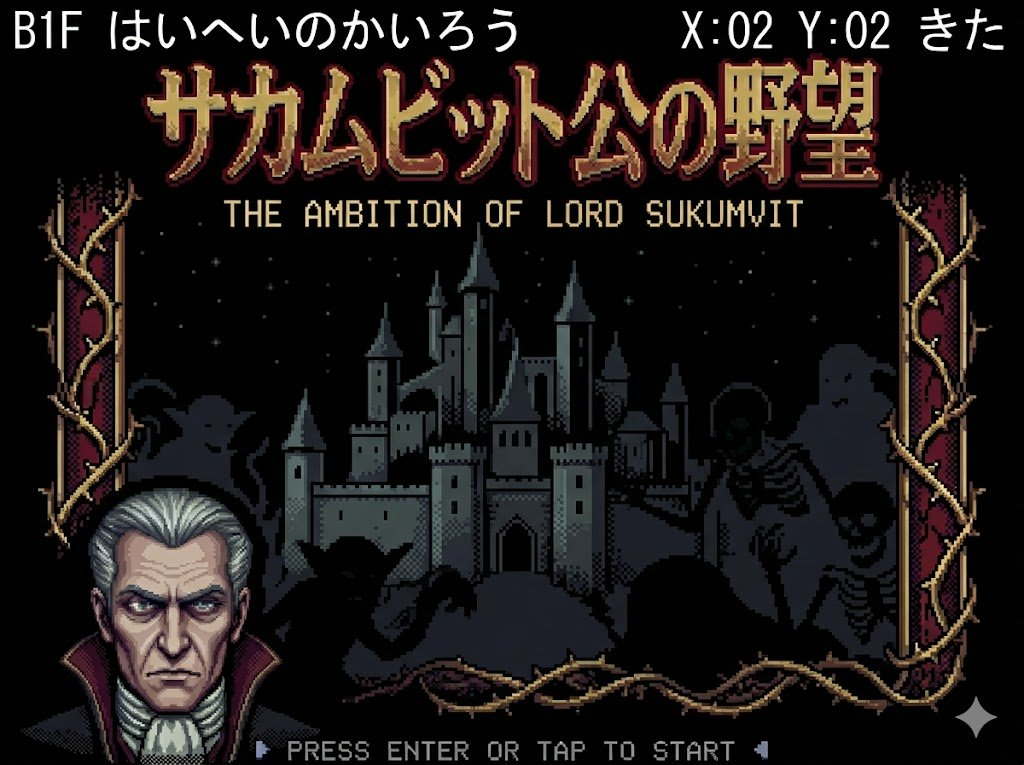
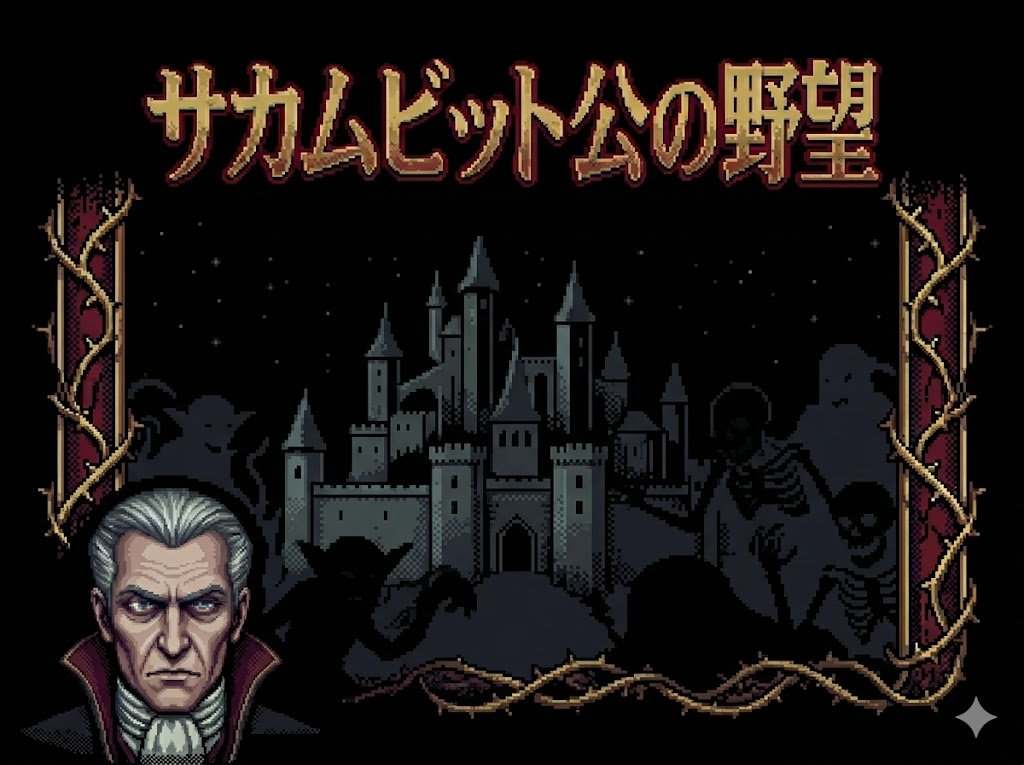
表示をすべて日本語化（能力値・階名・所持金・状態異常・タイトル等）、縮小時の文字化け対策
Claude-Session: https://claude.ai/code/session_01KaWmok8TJM3XTd2GM42zCU

diff --git a/main.js b/main.js
@@ -126,7 +126,7 @@ const SPELLS = {
 
 const FLOORS = [
   {
-    name: "B1F 廃兵の回廊", color: "#58ff9a", start: [1, 17, 0], encounter: 0.08,
+    name: "地下1階 廃兵の回廊", color: "#58ff9a", start: [1, 17, 0], encounter: 0.08,
     map: [
       "###################",
       "#..T....#.....E..>#",
@@ -159,7 +159,7 @@ const FLOORS = [
     monsters: ["skeleton","kobold","rat","brigand","goblin","zombie","cave_bat","slime","cave_spider","imp","bandit","mushroom_man","toad","mud_bat","bone_dog","plague_rat","thug","hollow","rust_sprite","cave_worm"]
   },
   {
-    name: "B2F 魔導工房跡", color: "#60c8ff", start: [1, 1, 1], encounter: 0.105,
+    name: "地下2階 魔導工房跡", color: "#60c8ff", start: [1, 1, 1], encounter: 0.105,
     map: [
       "###################",
       "#<....#......T....#",
@@ -193,7 +193,7 @@ const FLOORS = [
     monsters: ["gargoyle","wisp","moth","golem","fire_elemental","ice_sprite","stone_snake","bronze_scarab","crystal_fly","hex_eye","venom_moth","amber_golem","sand_wraith","cave_leech","rock_crab","mold_creep","dust_devil","toxic_ooze","brass_knight","jar_ghost","swarm_bee","chaos_sprite","magma_slug","gloom_bat"]
   },
   {
-    name: "B3F 地下牢獄", color: "#bf8cff", start: [1, 1, 1], encounter: 0.12,
+    name: "地下3階 地下牢獄", color: "#bf8cff", start: [1, 1, 1], encounter: 0.12,
     map: [
       "###################",
       "#<......#.........#",
@@ -227,7 +227,7 @@ const FLOORS = [
     monsters: ["minotaur","warden","shade","hound","dark_knight","bone_mage","chain_ghost","stone_troll","cave_bear","wolf_shade","plague_doc","prison_guard","iron_claw","mist_hag","eye_beast","shadow_dog","dungeon_rat","rot_walker","blood_moth","tomb_bat","ruin_warden","hex_hand","mud_troll","cave_horror"]
   },
   {
-    name: "B4F 宝物庫回廊", color: "#ffcf66", start: [1, 1, 1], encounter: 0.135,
+    name: "地下4階 宝物庫回廊", color: "#ffcf66", start: [1, 1, 1], encounter: 0.135,
     map: [
       "###################",
       "#<....T#..........#",
@@ -258,7 +258,7 @@ const FLOORS = [
     monsters: ["dragon","banshee","lich","mimic","vampire","wyvern","basilisk","medusa","bone_lord","death_knight","necromancer","gold_golem","chaos_knight","shadow_dragon","void_eye","plague_knight","flame_lich","iron_golem","rune_guardian","elder_mimic","void_slime","cursed_armor","death_moth","sin_eater","arch_wisp"]
   },
   {
-    name: "B5F 玉座の間", color: "#ff6666", start: [1, 1, 1], encounter: 0.10,
+    name: "地下5階 玉座の間", color: "#ff6666", start: [1, 1, 1], encounter: 0.10,
     map: [
       "###################",
       "#<................#",
@@ -929,7 +929,7 @@ function enemyRound(log) {
         target.maxHp = Math.max(1, target.maxHp - rand(2, 5));
         target.hp = Math.min(target.hp, target.maxHp);
         sfx.curse();
-        log.push(`${target.name}はレベルを奪われた！（Lv${target.lv}）`);
+        log.push(`${target.name}はレベルを奪われた！（レベル${target.lv}）`);
       }
     }
     if (e.skill === "mirror" && Math.random() < 0.35) {
@@ -1011,7 +1011,7 @@ function victory(log) {
     p.exp += exp;
     levelUp(p, log);
   }
-  log.push(`勝利。${exp}EXPと${gold}Gを得た。`);
+  log.push(`勝利。経験値${exp}と${gold}ゴールドを得た。`);
   const hasChest = Math.random() < 0.45;
   if (tryRecruitment(log.join("\n"), hasChest)) return;
   if (hasChest) { openChest(CHESTS.battle, null, log.join("\n")); return; }
@@ -1170,7 +1170,7 @@ function lootChest(force = false) {
   if (chest.doneFlag) state.flags[chest.doneFlag] = true;
   const prefix = chest.prefix || "";
   endBattle();
-  message = `${prefix ? prefix + "\n" : ""}宝箱を開けた。${gold}G${got.length ? "と" + got.join("、") : ""}を得た。`;
+  message = `${prefix ? prefix + "\n" : ""}宝箱を開けた。${gold}ゴールド${got.length ? "と" + got.join("、") : ""}を得た。`;
   render();
 }
 
@@ -1224,7 +1224,7 @@ function town(extra = "") {
 function rest() {
   const cost = 30 + state.party.reduce((s, p) => s + p.lv * 8, 0);
   if (state.gold < cost) {
-    message = `宿代は${cost}G。足りない。`;
+    message = `宿代は${cost}ゴールド。足りない。`;
     return render();
   }
   state.gold -= cost;
@@ -1235,7 +1235,7 @@ function rest() {
       delete p.status.sleep;
     }
   });
-  message = `馬小屋で休んだ。${cost}G支払った。`;
+  message = `馬小屋で休んだ。${cost}ゴールド支払った。`;
   render();
 }
 
@@ -1243,13 +1243,13 @@ function decurse() {
   const cursed = state.party.find(p => p.cursedSlot);
   if (!cursed) { message = "寺院: 呪われた者はいない。"; return render(); }
   const cost = 600 + cursed.lv * 100;
-  if (state.gold < cost) { message = `寺院: 呪い解きには${cost}G必要だ。`; return render(); }
+  if (state.gold < cost) { message = `寺院: 呪い解きには${cost}ゴールド必要だ。`; return render(); }
   state.gold -= cost;
   const slot = cursed.cursedSlot;
   const eqId = cursed.equip[slot];
   cursed.equip[slot] = null;
   cursed.cursedSlot = undefined;
-  message = `${cursed.name}の呪いが解けた。${EQUIPMENT[eqId]?.name || "装備"}が砕けた。${cost}Gを献金した。`;
+  message = `${cursed.name}の呪いが解けた。${EQUIPMENT[eqId]?.name || "装備"}が砕けた。${cost}ゴールドを献金した。`;
   render();
 }
 
@@ -1269,7 +1269,7 @@ function temple() {
   const cost = isAshes ? 500 + target.lv * 150 : 250 + target.lv * 80;
   if (state.gold < cost) {
     const stateLabel = isAshes ? "灰化" : "死亡";
-    message = `寺院: ${target.name}(${stateLabel})の蘇生には${cost}G必要だ。`;
+    message = `寺院: ${target.name}(${stateLabel})の蘇生には${cost}ゴールド必要だ。`;
     return render();
   }
   state.gold -= cost;
@@ -1285,9 +1285,9 @@ function temple() {
       const oldLv = target.lv;
       target.lv = Math.max(1, target.lv - 1);
       target.maxHp = Math.max(1, target.maxHp - rand(1, 4));
-      message = `${target.name}は灰の中から蘇った。${cost}Gを献金した。\nただし力は衰え、Lv${oldLv}→${target.lv}に落ちた。`;
+      message = `${target.name}は灰の中から蘇った。${cost}ゴールドを献金した。\nただし力は衰え、レベル${oldLv}→${target.lv}に落ちた。`;
     } else {
-      message = `${target.name}は蘇生した。${cost}Gを献金した。`;
+      message = `${target.name}は蘇生した。${cost}ゴールドを献金した。`;
     }
   } else {
     if (isAshes) {
@@ -1342,11 +1342,11 @@ function reorder() {
 }
 
 function showCamp() {
-  const inv = Object.entries(state.inventory).map(([id, n]) => `${ITEMS[id].name}x${n}`).join(" / ");
-  const stock = Object.entries(state.stock).filter(([, n]) => n > 0).map(([id, n]) => `${EQUIPMENT[id].name}x${n}`).join(" / ") || "なし";
+  const inv = Object.entries(state.inventory).map(([id, n]) => `${ITEMS[id].name}×${n}`).join(" / ");
+  const stock = Object.entries(state.stock).filter(([, n]) => n > 0).map(([id, n]) => `${EQUIPMENT[id].name}×${n}`).join(" / ") || "なし";
   showModal(`
     <h2>冒険者の町</h2>
-    <p>G: <span class="gold">${state.gold}</span></p>
+    <p>所持金: <span class="gold">${state.gold}</span></p>
     <p>道具: ${inv}</p>
     <p>予備装備: ${stock}</p>
     <div class="actions">
@@ -1362,8 +1362,8 @@ function showCamp() {
     </div>
     <h2>商店</h2>
     <div class="actions">
-      ${Object.entries(ITEMS).map(([id, it]) => `<button data-buy-kind="item" data-buy="${id}">${it.name} ${it.price}G</button>`).join("")}
-      ${Object.entries(EQUIPMENT).filter(([id, it]) => !it.cursed && id !== "muramasaShard").map(([id, it]) => `<button data-buy-kind="equip" data-buy="${id}">${it.name} ${it.price}G</button>`).join("")}
+      ${Object.entries(ITEMS).map(([id, it]) => `<button data-buy-kind="item" data-buy="${id}">${it.name} ${it.price}ゴールド</button>`).join("")}
+      ${Object.entries(EQUIPMENT).filter(([id, it]) => !it.cursed && id !== "muramasaShard").map(([id, it]) => `<button data-buy-kind="equip" data-buy="${id}">${it.name} ${it.price}ゴールド</button>`).join("")}
     </div>
   `);
 }
@@ -1375,11 +1375,11 @@ function showTransfer() {
       .filter(([id]) => id !== p.cls)
       .map(([id, c]) => `<button data-action="dotransfer" data-member="${i}" data-cls="${id}">${c.label}へ</button>`)
       .join("");
-    return `<p>${i + 1}. <span class="gold">${p.name}</span> ${p.className} Lv${p.lv} → ${opts}</p>`;
+    return `<p>${i + 1}. <span class="gold">${p.name}</span> ${p.className} レベル${p.lv} → ${opts}</p>`;
   }).join("");
   showModal(`
     <h2>訓練場 – 転職</h2>
-    <p class="dim">転職するとLv1に戻るが、HPと呪文スロットは保持される。費用: 300G</p>
+    <p class="dim">転職するとレベル1に戻るが、体力と呪文回数は保持される。費用: 300ゴールド</p>
     ${rows}
     <div class="actions"><button data-action="close">戻る</button></div>
   `);
@@ -1389,7 +1389,7 @@ function doTransfer(memberIdx, newCls) {
   const p = state.party[memberIdx];
   if (!p) return;
   const cost = 300;
-  if (state.gold < cost) { message = "転職費用が足りない（300G）。"; return render(); }
+  if (state.gold < cost) { message = "転職費用が足りない（300ゴールド）。"; return render(); }
   if (p.dead) { message = `${p.name}は死んでいるため転職できない。`; return render(); }
   state.gold -= cost;
   const c = CLASSES[newCls];
@@ -1409,7 +1409,7 @@ function doTransfer(memberIdx, newCls) {
     p.maxMp = [0, 0, 0];
     p.mp = [0, 0, 0];
   }
-  message = `${p.name}は${c.label}に転職した。Lv1から再出発だ。`;
+  message = `${p.name}は${c.label}に転職した。レベル1から再出発だ。`;
   closeModal();
   render();
 }
@@ -1420,9 +1420,9 @@ function showStatus() {
       : p.dead === "ashes" ? '<span style="color:#ff9900">【灰】</span>'
       : p.dead === "dead" ? '<span class="red">【死亡】</span>'
       : "";
-    const bad = Object.keys(p.status || {}).filter(k => p.status[k]).join(" ");
+    const bad = Object.keys(p.status || {}).filter(k => p.status[k]).map(statusLabel).join(" ");
     const equip = Object.values(p.equip).filter(Boolean).map(id => EQUIPMENT[id]?.name || id).join(" ");
-    return `<p>${i + 1}. <span class="gold">${p.name}</span> ${stateStr} ${p.className} Lv${p.lv} HP ${p.hp}/${p.maxHp} AC ${acOf(p)} ATK ${atkOf(p)} MP ${p.mp.join("/")}${bad ? ` <span class="red">${bad}</span>` : ""}${equip ? ` <span class="dim">[${equip}]</span>` : ""}</p>`;
+    return `<p>${i + 1}. <span class="gold">${p.name}</span> ${stateStr} ${p.className} レベル${p.lv} 体力 ${p.hp}/${p.maxHp} 防御 ${acOf(p)} 攻撃 ${atkOf(p)} 呪文 ${p.mp.join("/")}${bad ? ` <span class="red">${bad}</span>` : ""}${equip ? ` <span class="dim">[${equip}]</span>` : ""}</p>`;
   }).join("");
   showModal(`<h2>冒険者名簿</h2>${rows}<div class="actions"><button data-action="close">戻る</button></div>`);
 }
@@ -1440,8 +1440,8 @@ function showMap() {
 
 function showHelp() {
   showModal(`
-    <h2>v3の遊び方</h2>
-    <p>FC版Wizardryを意識し、6人隊列、AC、呪文回数、宝箱罠、寺院、宿屋、商店、地図、隊列変更を入れています。</p>
+    <h2>第三版の遊び方</h2>
+    <p>ファミコン版ウィザードリィを意識し、6人隊列、防御値、呪文回数、宝箱罠、寺院、宿屋、商店、地図、隊列変更を入れています。</p>
     <p>前列3人は通常攻撃が届きます。後列は魔法と祈りが主役です。盗賊が生きていると罠判定と遭遇率が楽になります。</p>
     <p>宝箱は「調査」「罠解除」「開ける」の順が基本。無理に開けると毒針や爆裂罠が来ます。</p>
     <div class="actions"><button data-action="close">戻る</button></div>
@@ -1451,8 +1451,8 @@ function showHelp() {
 function showTitle() {
   showModal(`
     ${titleImage.complete && titleImage.naturalWidth ? `<img src="img/title.png" alt="タイトル画像">` : ""}
-    <h1>サカムビット公の逆襲 v3</h1>
-    <p>六人の隊列で大迷宮へ潜る、ファミコンWizardry寄せの版です。玄室、罠箱、宿屋、寺院、呪文回数、ACを追加しました。</p>
+    <h1>サカムビット公の逆襲 第三版</h1>
+    <p>六人の隊列で大迷宮へ潜る、ファミコン版ウィザードリィ寄せの版です。玄室、罠箱、宿屋、寺院、呪文回数、防御値を追加しました。</p>
     <div class="actions">
       <button data-action="new">新しく始める</button>
       <button data-action="load">続きから</button>
@@ -1466,7 +1466,7 @@ function showEnding() {
     <h1>逆襲、成る</h1>
     <p>勇者アレックスは倒れ、デスフォールの玉座は再び主を得た。</p>
     <p>サカムビット公は振り返る。勝利したのは王冠ではなく、六人の隊列だった。</p>
-    <p class="gold">GAME CLEAR</p>
+    <p class="gold">攻略完了</p>
     <div class="actions"><button data-action="new">もう一度</button><button data-action="close">閉じる</button></div>
   `, true);
 }
@@ -1489,9 +1489,12 @@ function render() {
   msgEl.textContent = message;
 }
 
+const STATUS_LABELS = { poison: "毒", sleep: "睡眠", paralyze: "麻痺", burn: "炎上", bleed: "出血", slow: "鈍化", lost: "喪失" };
+function statusLabel(k) { return STATUS_LABELS[k] || k; }
+
 function renderHud() {
   partyEl.innerHTML = state.party.map((p, i) => {
-    const bad = Object.keys(p.status || {}).join(" ");
+    const bad = Object.keys(p.status || {}).map(statusLabel).join(" ");
     let borderColor = p.isNamedAlly ? "#bf8cff" : p.isMonster ? "#ff6020" : null;
     let extraStyle = "";
     let deadLabel = "";
@@ -1503,14 +1506,14 @@ function renderHud() {
     const cursedMark = p.cursedSlot ? ' <span style="color:#ff9900">呪</span>' : "";
     return `<div class="member ${p.hp <= 0 ? "dead" : ""}"${styleAttr}>
       <div class="name">${i + 1} ${p.name} ${p.className}${cursedMark}</div>
-      <div class="hp">HP ${p.hp}/${p.maxHp}</div>
-      <div>AC ${acOf(p)} ATK ${atkOf(p)} MP ${p.mp.join("/")}</div>
+      <div class="hp">体力 ${p.hp}/${p.maxHp}</div>
+      <div>防御${acOf(p)} 攻撃${atkOf(p)} 呪文${p.mp.join("/")}</div>
       <div class="bad">${deadLabel || bad || p.align}</div>
     </div>`;
   }).join("");
   metaEl.innerHTML = `<div class="gold">${floor().name}</div>
-    <div>向き ${DIRS[state.dir].name} / X${state.x} Y${state.y}</div>
-    <div>G ${state.gold} / 歩数 ${state.steps}</div>
+    <div>向き ${DIRS[state.dir].name} / 位置 横${state.x}・縦${state.y}</div>
+    <div>所持金 ${state.gold} / 歩数 ${state.steps}</div>
     <div>危険 ${state.danger} / 生存 ${living().length}/6</div>
     ${_dark > 0 ? `<div style="color:#ff9900">暗闇 残${_dark}歩</div>` : ""}
     ${_noSpell > 0 ? `<div style="color:#ff6666">魔封じ 残${_noSpell}歩</div>` : ""}`;
@@ -1562,10 +1565,10 @@ function drawTitle() {
   ctx.fillText("サカムビット公の逆襲", 480, 230 + Math.sin(frame / 28) * 5);
   ctx.fillStyle = "#f4ecd0";
   ctx.font = "24px 'MS Gothic', monospace";
-  ctx.fillText("WIZARDRY STYLE v3", 480, 284);
+  ctx.fillText("ウィザードリィ風 第三版", 480, 284);
   if (Math.floor(frame / 32) % 2 === 0) {
     ctx.fillStyle = "#d9b65f";
-    ctx.fillText("PRESS ENTER", 480, 430);
+    ctx.fillText("決定キーで開始", 480, 430);
   }
 }
 
@@ -1690,12 +1693,9 @@ function drawDungeon() {
     dg.addColorStop(1, `rgba(160,0,0,${da})`);
     ctx.fillStyle = dg; ctx.fillRect(0, 0, W, H);
   }
-  // 外枠 & 階名（左上）
+  // 外枠（階名は右上の状態欄に表示済みのため、縮小時に文字化けして見える画面内表示は廃止）
   ctx.strokeStyle = rgba(wc, .7); ctx.lineWidth = 3;
   ctx.strokeRect(2, 2, W - 4, H - 4);
-  ctx.fillStyle = wc; ctx.textAlign = "left";
-  ctx.font = "16px 'MS Gothic', monospace";
-  ctx.fillText(floor().name, 14, 20);
 }
 
 function slice(d) {
@@ -1830,7 +1830,7 @@ function drawBattle() {
     ctx.strokeRect(338, 362, 284, 14);
     ctx.fillStyle = "#aaa";
     ctx.font = "13px 'MS Gothic', monospace";
-    ctx.fillText(`HP ${e.hp}/${e.maxHp}`, 480, 388);
+    ctx.fillText(`体力 ${e.hp}/${e.maxHp}`, 480, 388);
   }
   // Enemy count dots
   const cnt = enemies.length;
@@ -1844,7 +1844,7 @@ function drawBattle() {
   }
   ctx.font = "16px 'MS Gothic', monospace";
   ctx.fillStyle = "#888";
-  ctx.fillText(`残り ${cnt}体  ROUND ${battle.round}`, 480, cnt > 1 ? 430 : 415);
+  ctx.fillText(`残り ${cnt}体  第${battle.round}ターン`, 480, cnt > 1 ? 430 : 415);
 }
 
 // Shared 24×24 pixel bodies (palette indices, '.' = transparent)
@@ -2631,7 +2631,7 @@ function drawCentered(text, color, size) {
   // GAME OVER line
   ctx.fillStyle = "#882222";
   ctx.font = "28px 'MS Gothic', monospace";
-  ctx.fillText("― GAME OVER ―", 480, 370);
+  ctx.fillText("― 冒険終了 ―", 480, 370);
   ctx.fillStyle = "#553333";
   ctx.font = "18px 'MS Gothic', monospace";
   ctx.fillText("寺院に運ぶ者もいない", 480, 408);

diff --git a/index.html b/index.html
@@ -3,7 +3,7 @@
 <head>
 <meta charset="UTF-8">
 <meta name="viewport" content="width=device-width, initial-scale=1.0, viewport-fit=cover">
-<title>サカムビット公の逆襲 v3</title>
+<title>サカムビット公の逆襲 第三版</title>
 <style>
   :root {
     --bg: #000;
@@ -80,7 +80,8 @@
     display: block;
     border: 2px solid var(--line);
     background: #000;
-    image-rendering: pixelated;
+    /* 縮小表示で漢字が欠けて別の字に見えないよう、なめらかに縮小する */
+    image-rendering: auto;
   }
 
   .panel {
